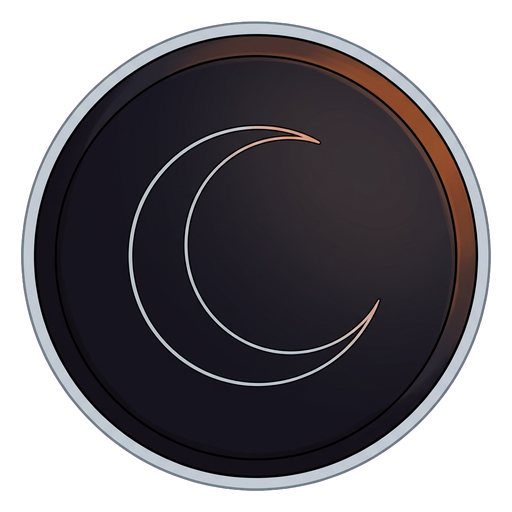
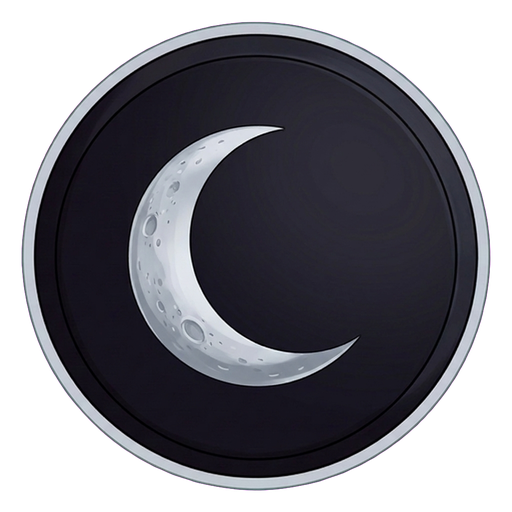
Apply art review fixes to L1, L2, L3 and SC
L1-L3 are redrawn as solid silver phases matching L4 (25/50/75% lit)
with cool rims, so the four lows read apart at 96 px. SC floats free
with no silver disc or bottom bar. The manifest, refs and FIXES.md come
from the gg-art-fixes pack, and prompts.md is synced.

Picks: L1 v2, L2 v1, SC v1, L3 v1 of a 3-variant re-roll (both variants
of the first L3 run came out as crescents).

Claude-Session: https://claude.ai/code/session_01WWiDc5PZPxx79xcfQg59Vp

diff --git a/tools/gg-assets/prompts.md b/tools/gg-assets/prompts.md
@@ -12,36 +12,36 @@ Semi-realistic digital illustration, clean line art, cel shading with soft paint
 
 ![refs/old-sapphire.png](refs/old-sapphire.png)
 
-Attach: Image 1 = `refs/old-sapphire.png`. 1:1, 1K, 3 variant(s), + master style. Output: `final/symbols/L1_crescent.png`.
+Attach: Image 1 = `refs/old-sapphire.png`, Image 2 = `refs/style-L4.png`. 1:1, 1K, 2 variant(s), + master style. Output: `final/symbols/L1_crescent.png`.
 
 ```
-Image 1 is an old symbol from our slot game. Use it only for framing, how much of the square the object fills, and level of finish. Do not keep its subject, shape, colours, gold metal or badge background.
+Image 1 is an old symbol from our slot game. Use it only for framing and scale; do not keep its subject, shape, colours, gold or badge. Image 2 is our approved Full Moon symbol from the same set: match its disc, bevel, silver rim, crater engraving and matte finish exactly so the four moons read as one set. The four moon symbols must be told apart at a glance at 96 px purely by how much of the moon is lit: crescent about 25%, half 50%, gibbous 75%, full 100%.
 
-Create a low-value slot symbol: a round matte obsidian disc with a subtle bevel, and a thin crescent moon engraved on it in flat polished-silver lines. A faint cool-grey rim around the disc. Flat and matte, low contrast, no glow, no gems, no gold. It must read instantly as a low-value symbol beside glowing premium ones. Centred, filling about 85% of a 1:1 frame.
+Create a low-value slot symbol on the same round matte obsidian disc: a crescent moon, about one quarter lit, drawn as a solid filled crescent of engraved polished silver with fine crater texture, bright against the dark disc. The unlit part of the moon is not drawn at all: no outline, no ring. Cool silver-grey rim, no copper, bronze or warm tones. Low contrast, no glow. Centred, filling about 85% of a 1:1 frame.
 ```
 
 ### L2: L2 Half Moon (replaces Emerald)
 
 ![refs/old-emerald.png](refs/old-emerald.png)
 
-Attach: Image 1 = `refs/old-emerald.png`, Image 2 = approved L1. 1:1, 1K, 1 variant(s), + master style. Output: `final/symbols/L2_half.png`.
+Attach: Image 1 = `refs/old-emerald.png`, Image 2 = `refs/style-L4.png`. 1:1, 1K, 2 variant(s), + master style. Output: `final/symbols/L2_half.png`.
 
 ```
-Image 1 is an old symbol from our slot game. Use it only for framing and scale; do not keep its subject, shape, colours, gold or badge. Image 2 is our approved new low symbol: match its disc size, bevel, engraving line weight and matte finish exactly so the lows read as one set.
+Image 1 is an old symbol from our slot game. Use it only for framing and scale; do not keep its subject, shape, colours, gold or badge. Image 2 is our approved Full Moon symbol from the same set: match its disc, bevel, silver rim, crater engraving and matte finish exactly so the four moons read as one set. The four moon symbols must be told apart at a glance at 96 px purely by how much of the moon is lit: crescent about 25%, half 50%, gibbous 75%, full 100%.
 
-Create a low-value slot symbol: a half moon with a hard, straight terminator line, engraved in flat polished silver on the same round matte obsidian disc. A faint blue-grey rim. Low contrast, no glow. Centred, filling about 85% of a 1:1 frame.
+Create a low-value slot symbol on the same round matte obsidian disc: a half moon. The left half is a solid filled half-disc of engraved polished silver with fine crater texture, cut by one perfectly straight vertical edge. The right half is not drawn at all: no outline, no extra lines. Cool silver-grey rim, no copper, bronze or warm tones. Low contrast, no glow. Centred, filling about 85% of a 1:1 frame.
 ```
 
 ### L3: L3 Gibbous Moon (replaces Amethyst)
 
 ![refs/old-amethyst.png](refs/old-amethyst.png)
 
-Attach: Image 1 = `refs/old-amethyst.png`, Image 2 = approved L1. 1:1, 1K, 1 variant(s), + master style. Output: `final/symbols/L3_gibbous.png`.
+Attach: Image 1 = `refs/old-amethyst.png`, Image 2 = `refs/style-L4.png`. 1:1, 1K, 2 variant(s), + master style. Output: `final/symbols/L3_gibbous.png`.
 
 ```
-Image 1 is an old symbol from our slot game. Use it only for framing and scale; do not keep its subject, shape, colours, gold or badge. Image 2 is our approved new low symbol: match its disc, bevel, line weight and matte finish exactly.
+Image 1 is an old symbol from our slot game. Use it only for framing and scale; do not keep its subject, shape, colours, gold or badge. Image 2 is our approved Full Moon symbol from the same set: match its disc, bevel, silver rim, crater engraving and matte finish exactly so the four moons read as one set. The four moon symbols must be told apart at a glance at 96 px purely by how much of the moon is lit: crescent about 25%, half 50%, gibbous 75%, full 100%.
 
-Create a low-value slot symbol: a gibbous moon, about three-quarters lit, with a sharp curved terminator line, engraved in flat polished silver on the same round matte obsidian disc. A faint violet-grey rim. Low contrast, no glow. Centred, filling about 85% of a 1:1 frame.
+Create a low-value slot symbol on the same round matte obsidian disc: a gibbous moon. About three quarters of the moon is a solid filled shape of engraved polished silver with fine crater texture; the unlit sliver on the right is not drawn at all, leaving a curved terminator. No outline of the dark part, no inner circle. Cool silver-grey rim, no copper, bronze or warm tones. Low contrast, no glow. Centred, filling about 85% of a 1:1 frame.
 ```
 
 ### L4: L4 Full Moon (replaces Ruby)
@@ -108,12 +108,12 @@ Create the top-value slot symbol: an obsidian face mask covering the upper face 
 
 ![refs/old-scatter.png](refs/old-scatter.png)
 
-Attach: Image 1 = `refs/old-scatter.png`, Image 2 = approved L1. 1:1, 1K, 1 variant(s), + master style. Output: `final/symbols/SC_black_sun.png`.
+Attach: Image 1 = `refs/old-scatter.png`, Image 2 = `refs/style-H4.png`. 1:1, 1K, 2 variant(s), + master style. Output: `final/symbols/SC_black_sun.png`.
 
 ```
-Image 1 is an old scatter symbol from our slot game. Use it only for framing and level of finish. Do not keep the portrait, any face or person, the laurel wreath, the gold frame or the text banner. Image 2 is our approved new style: match its line weight and cel shading.
+Image 1 is an old scatter symbol from our slot game. Use it only for framing and level of finish. Do not keep the portrait, any face or person, the laurel wreath, the gold frame or the text banner. Image 2 is our approved premium symbol: match its line weight, cel shading and glow.
 
-Create a scatter slot symbol: a perfectly black sun disc surrounded by a blazing crimson-and-orange corona of flame tendrils, with a thin bright ember ring where the disc meets the corona. Keep the whole corona inside the frame. Leave the bottom 20% of the frame empty for a SCATTER label we add in the game. No text in the image. Centred horizontally, 1:1 frame.
+Create a scatter slot symbol: a perfectly black sun disc surrounded by a blazing crimson-and-orange corona of flame tendrils, with a thin bright ember ring where the disc meets the corona. It floats free: no silver disc, plate, frame, border or outer ring behind or around it, and it must not look like our round moon symbols. Keep the whole corona inside the frame. The bottom 20% of the frame stays plain empty background for a label we add in the game: do not draw a bar, banner or panel there. No text in the image. Centred horizontally, 1:1 frame.
 ```
 
 ## Ember

diff --git a/tools/gg-assets/FIXES.md b/tools/gg-assets/FIXES.md
@@ -1,0 +1,18 @@
+# Art review fixes (4 regenerations)
+
+Copy this folder over the repo (it replaces `tools/gg-assets/manifest.json` and adds 2 files to `refs/`).
+Nothing else changes. The new references are static files, so these jobs don't depend on `output/`.
+
+| Job | Problem | Fix in the prompt |
+| --- | --- | --- |
+| L1, L2, L3 | Lows don't read as moon phases: L2 is a crescent with a line, L3 is a full disc inside a crescent, and at 96 px L1/L2 and L3/L4 look alike. L1 also has a warm copper rim | Solid filled silver phases matching L4 (25/50/75% lit), cool rim, L4 as style anchor |
+| SC | Sits on a silver disc like the lows, with a grey bar baked into the bottom | Free-floating corona, no disc or bar, H4 as style anchor |
+
+Run in Claude Code:
+
+    python generate.py run L1 L2 L3 SC --force
+    python generate.py sheet symbols
+
+Each job makes 2 variants and auto-approves v1. Look at the contact sheet, switch any with
+`python generate.py approve L2 v2`, check the lows at 96 px, then copy the new files from `final/`
+over the matching ones in `assets/eclipse/symbols/`. 8 images in total.
